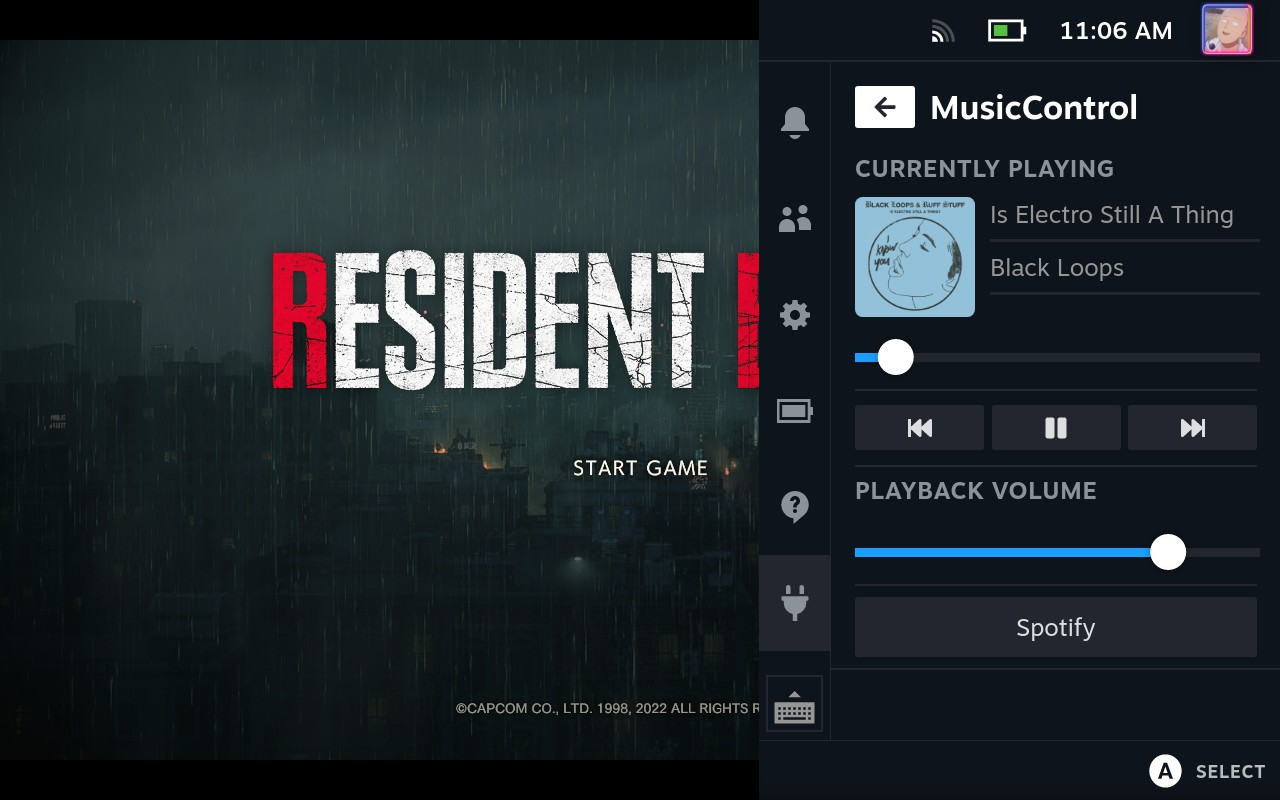
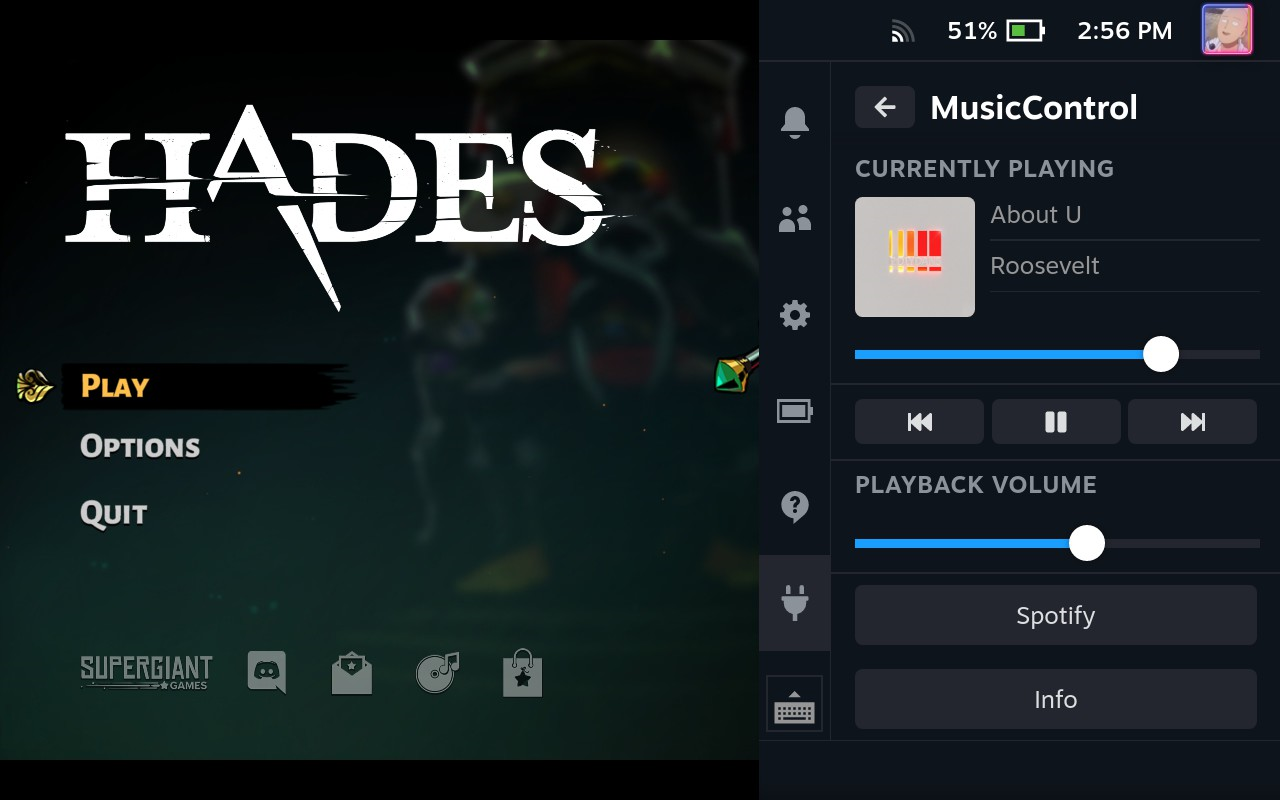
feat: add detailed info button, fix broken image when no internet is available

diff --git a/rollup.config.js b/rollup.config.js
@@ -1,14 +1,14 @@
-import commonjs from '@rollup/plugin-commonjs';
-import json from '@rollup/plugin-json';
-import { nodeResolve } from '@rollup/plugin-node-resolve';
-import replace from '@rollup/plugin-replace';
-import typescript from '@rollup/plugin-typescript';
-import { defineConfig } from 'rollup';
-import importAssets from 'rollup-plugin-import-assets';
+import commonjs from "@rollup/plugin-commonjs";
+import json from "@rollup/plugin-json";
+import { nodeResolve } from "@rollup/plugin-node-resolve";
+import replace from "@rollup/plugin-replace";
+import typescript from "@rollup/plugin-typescript";
+import { defineConfig } from "rollup";
+import importAssets from "rollup-plugin-import-assets";
 import { name } from "./plugin.json";
 
 export default defineConfig({
-  input: './src/index.tsx',
+  input: "./src/index.tsx",
   plugins: [
     commonjs(),
     nodeResolve(),
@@ -16,21 +16,21 @@ export default defineConfig({
     json(),
     replace({
       preventAssignment: false,
-      'process.env.NODE_ENV': JSON.stringify('production'),
+      "process.env.NODE_ENV": JSON.stringify("production"),
     }),
     importAssets({
-      publicPath: `http://127.0.0.1:1337/plugins/${name}/`
-    })
+      publicPath: `http://127.0.0.1:1337/plugins/${name}/`,
+    }),
   ],
-  context: 'window',
-  external: ['react', 'react-dom'],
+  context: "window",
+  external: ["react", "react-dom"],
   output: {
-    file: 'dist/index.js',
+    file: "dist/index.js",
     globals: {
-      react: 'SP_REACT',
-      'react-dom': 'SP_REACTDOM'
+      react: "SP_REACT",
+      "react-dom": "SP_REACTDOM",
     },
-    format: 'iife',
-    exports: 'default',
+    format: "iife",
+    exports: "default",
   },
 });

diff --git a/src/index.tsx b/src/index.tsx
@@ -1,12 +1,33 @@
-import { definePlugin, ServerAPI } from "decky-frontend-lib";
+import { definePlugin, ServerAPI, SteamSpinner } from "decky-frontend-lib";
 import { FaMusic } from "react-icons/fa";
 import { Title } from "./components/title";
 import { Content } from "./components/content";
 import { AppContextProvider } from "./context/context";
 import * as python from "./python";
+import { InfoRoute } from "./routes";
+import { Suspense } from "react";
 
 export default definePlugin((serverApi: ServerAPI) => {
   python.setServer(serverApi);
+  serverApi.routerHook.addRoute("/decky/musiccontrol/info", InfoRoute, () => {
+    return (
+      <Suspense
+        fallback={
+          <div
+            style={{
+              marginTop: "40px",
+              height: "calc( 100% - 40px )",
+              overflowY: "scroll",
+            }}
+          >
+            <SteamSpinner />
+          </div>
+        }
+      >
+        <InfoRoute />
+      </Suspense>
+    );
+  });
 
   return {
     title: <Title />,
@@ -16,5 +37,8 @@ export default definePlugin((serverApi: ServerAPI) => {
       </AppContextProvider>
     ),
     icon: <FaMusic />,
+    onDismount() {
+      serverApi.routerHook.removeRoute("/decky/musiccontrol/info");
+    },
   };
 });

diff --git a/src/routes/pages/usage.tsx b/src/routes/pages/usage.tsx
@@ -1,0 +1,25 @@
+import { Focusable } from "decky-frontend-lib";
+import { VFC } from "react";
+
+export const UsagePage: VFC = () => {
+  return (
+    <Focusable>
+      For the plugin to be able to see the media player, you need to follow
+      these steps:
+      <ol>
+        <li>Install your music application through discover store.</li>
+        <li>Add your music player as a non-steam game in desktop mode.</li>
+        <li>
+          Launch your music player in game mode and start playback of music.
+        </li>
+      </ol>
+      <br />
+      When the application has launched and you have started playback, you can
+      switch to a game using the steam button while keeping the media player
+      running in the background. The plugin should automatically detect the
+      running media player and show controls for you. In the case of multiple
+      running media players, you can select which one to control in the plugin
+      panel.
+    </Focusable>
+  );
+};

diff --git a/src/routes/index.tsx b/src/routes/index.tsx
@@ -1,0 +1,31 @@
+import { SidebarNavigation } from "decky-frontend-lib";
+import { VFC } from "react";
+import { InfoPage } from "./pages/info";
+import { TroubleshootingPage } from "./pages/troubleshooting";
+import { UsagePage } from "./pages/usage";
+
+export const InfoRoute: VFC = () => {
+  return (
+    <SidebarNavigation
+      title="MusicControl"
+      showTitle
+      pages={[
+        {
+          title: "Info",
+          content: <InfoPage />,
+          route: "/decky/musiccontrol/info/info",
+        },
+        {
+          title: "Usage",
+          content: <UsagePage />,
+          route: "/decky/musiccontrol/info/usage",
+        },
+        {
+          title: "Troubleshooting",
+          content: <TroubleshootingPage />,
+          route: "/decky/musiccontrol/info/troubleshooting",
+        },
+      ]}
+    />
+  );
+};

diff --git a/src/components/infoSection.tsx b/src/components/infoSection.tsx
@@ -1,14 +1,15 @@
-import { PanelSectionRow } from "decky-frontend-lib";
+import { ButtonItem, Router } from "decky-frontend-lib";
 import { VFC } from "react";
 
-export const InfoSection: VFC<{ show: boolean }> = ({ show }) => {
-  if (!show) return <div></div>;
+export const InfoSection: VFC = () => {
+  const onClickInfo = () => {
+    Router.CloseSideMenus();
+    Router.Navigate("/decky/musiccontrol/info");
+  };
+
   return (
-    <PanelSectionRow>
-      <div style={{ marginTop: "5px", padding: "0px" }}>
-        Launch any media player through game mode that implements MPRIS and it
-        will show up in this panel.
-      </div>
-    </PanelSectionRow>
+    <ButtonItem layout="below" bottomSeparator={false} onClick={onClickInfo}>
+      Info
+    </ButtonItem>
   );
 };

diff --git a/src/routes/pages/info.tsx b/src/routes/pages/info.tsx
@@ -1,0 +1,21 @@
+import { Focusable } from "decky-frontend-lib";
+import { VFC } from "react";
+
+export const InfoPage: VFC = () => {
+  return (
+    <Focusable>
+      MusicControl allows you to control any media playback that is currently
+      running that implements the MPRIS dbus interface. <br />
+      Examples of application that are supported:
+      <ul>
+        <li>Spotify</li>
+        <li>Cider</li>
+        <li>Chrome / Firefox</li>
+        <li>Strawberry</li>
+      </ul>
+      Only the flatpak versions of these applications have been tested, and not
+      all of them might support the full feature set, so it is recommended to
+      use the discover store to install the applications.
+    </Focusable>
+  );
+};

diff --git a/src/components/mediaProviderButton.tsx b/src/components/mediaProviderButton.tsx
@@ -34,7 +34,7 @@ export const MediaProviderButton: VFC<MediaProviderProps> = (
 
   const handleOnClick = (e: MouseEvent) =>
     showContextMenu(
-      <Menu label="Select Media Control" cancelText="Cancel">
+      <Menu label="Select Media Player" cancelText="Cancel">
         {state.providers.map((provider: string) => {
           return (
             <MenuItem
@@ -55,7 +55,7 @@ export const MediaProviderButton: VFC<MediaProviderProps> = (
     );
 
   return (
-    <ButtonItem layout="below" onClick={handleOnClick}>
+    <ButtonItem layout="below" bottomSeparator={false} onClick={handleOnClick}>
       {props.currentProvider == ""
         ? "No Media Player Found"
         : getDisplayNameForProvider(props.currentProvider)}

diff --git a/src/routes/pages/troubleshooting.tsx b/src/routes/pages/troubleshooting.tsx
@@ -1,0 +1,15 @@
+import { Focusable } from "decky-frontend-lib";
+import { VFC } from "react";
+
+export const TroubleshootingPage: VFC = () => {
+  return (
+    <Focusable>
+      Make sure you have followed the steps on the Usage page. If the plugin
+      still does not detect running media players when it should fresh after
+      installation, try restarting your steam deck first. If the problems
+      persist, please make an issue on the github page or send a message in the
+      MusicControl Support thread in the #support-plugins channel of the Steam
+      Deck Homebrew Discord.
+    </Focusable>
+  );
+};

diff --git a/src/components/albumArt.tsx b/src/components/albumArt.tsx
@@ -33,7 +33,11 @@ export const AlbumArt: VFC<{ albumArt: string }> = ({ albumArt }) => {
       <img
         style={{ borderRadius: "5px", width: "80px", height: "80px" }}
         src={currentDisplayUrl}
-      />
+        onError={({ currentTarget }) => {
+          if (currentTarget.src == defaultState.currentArtUrl) return;
+          currentTarget.src = defaultState.currentArtUrl;
+        }}
+      ></img>
     </div>
   );
 };

diff --git a/src/components/content.tsx b/src/components/content.tsx
@@ -206,7 +206,9 @@ export const Content: VFC = () => {
       <PanelSectionRow>
         <MediaProviderButton currentProvider={state.currentServiceProvider} />
       </PanelSectionRow>
-      <InfoSection show={state.currentServiceProvider == ""} />
+      <PanelSectionRow>
+        <InfoSection />
+      </PanelSectionRow>
     </PanelSection>
   );
 };
